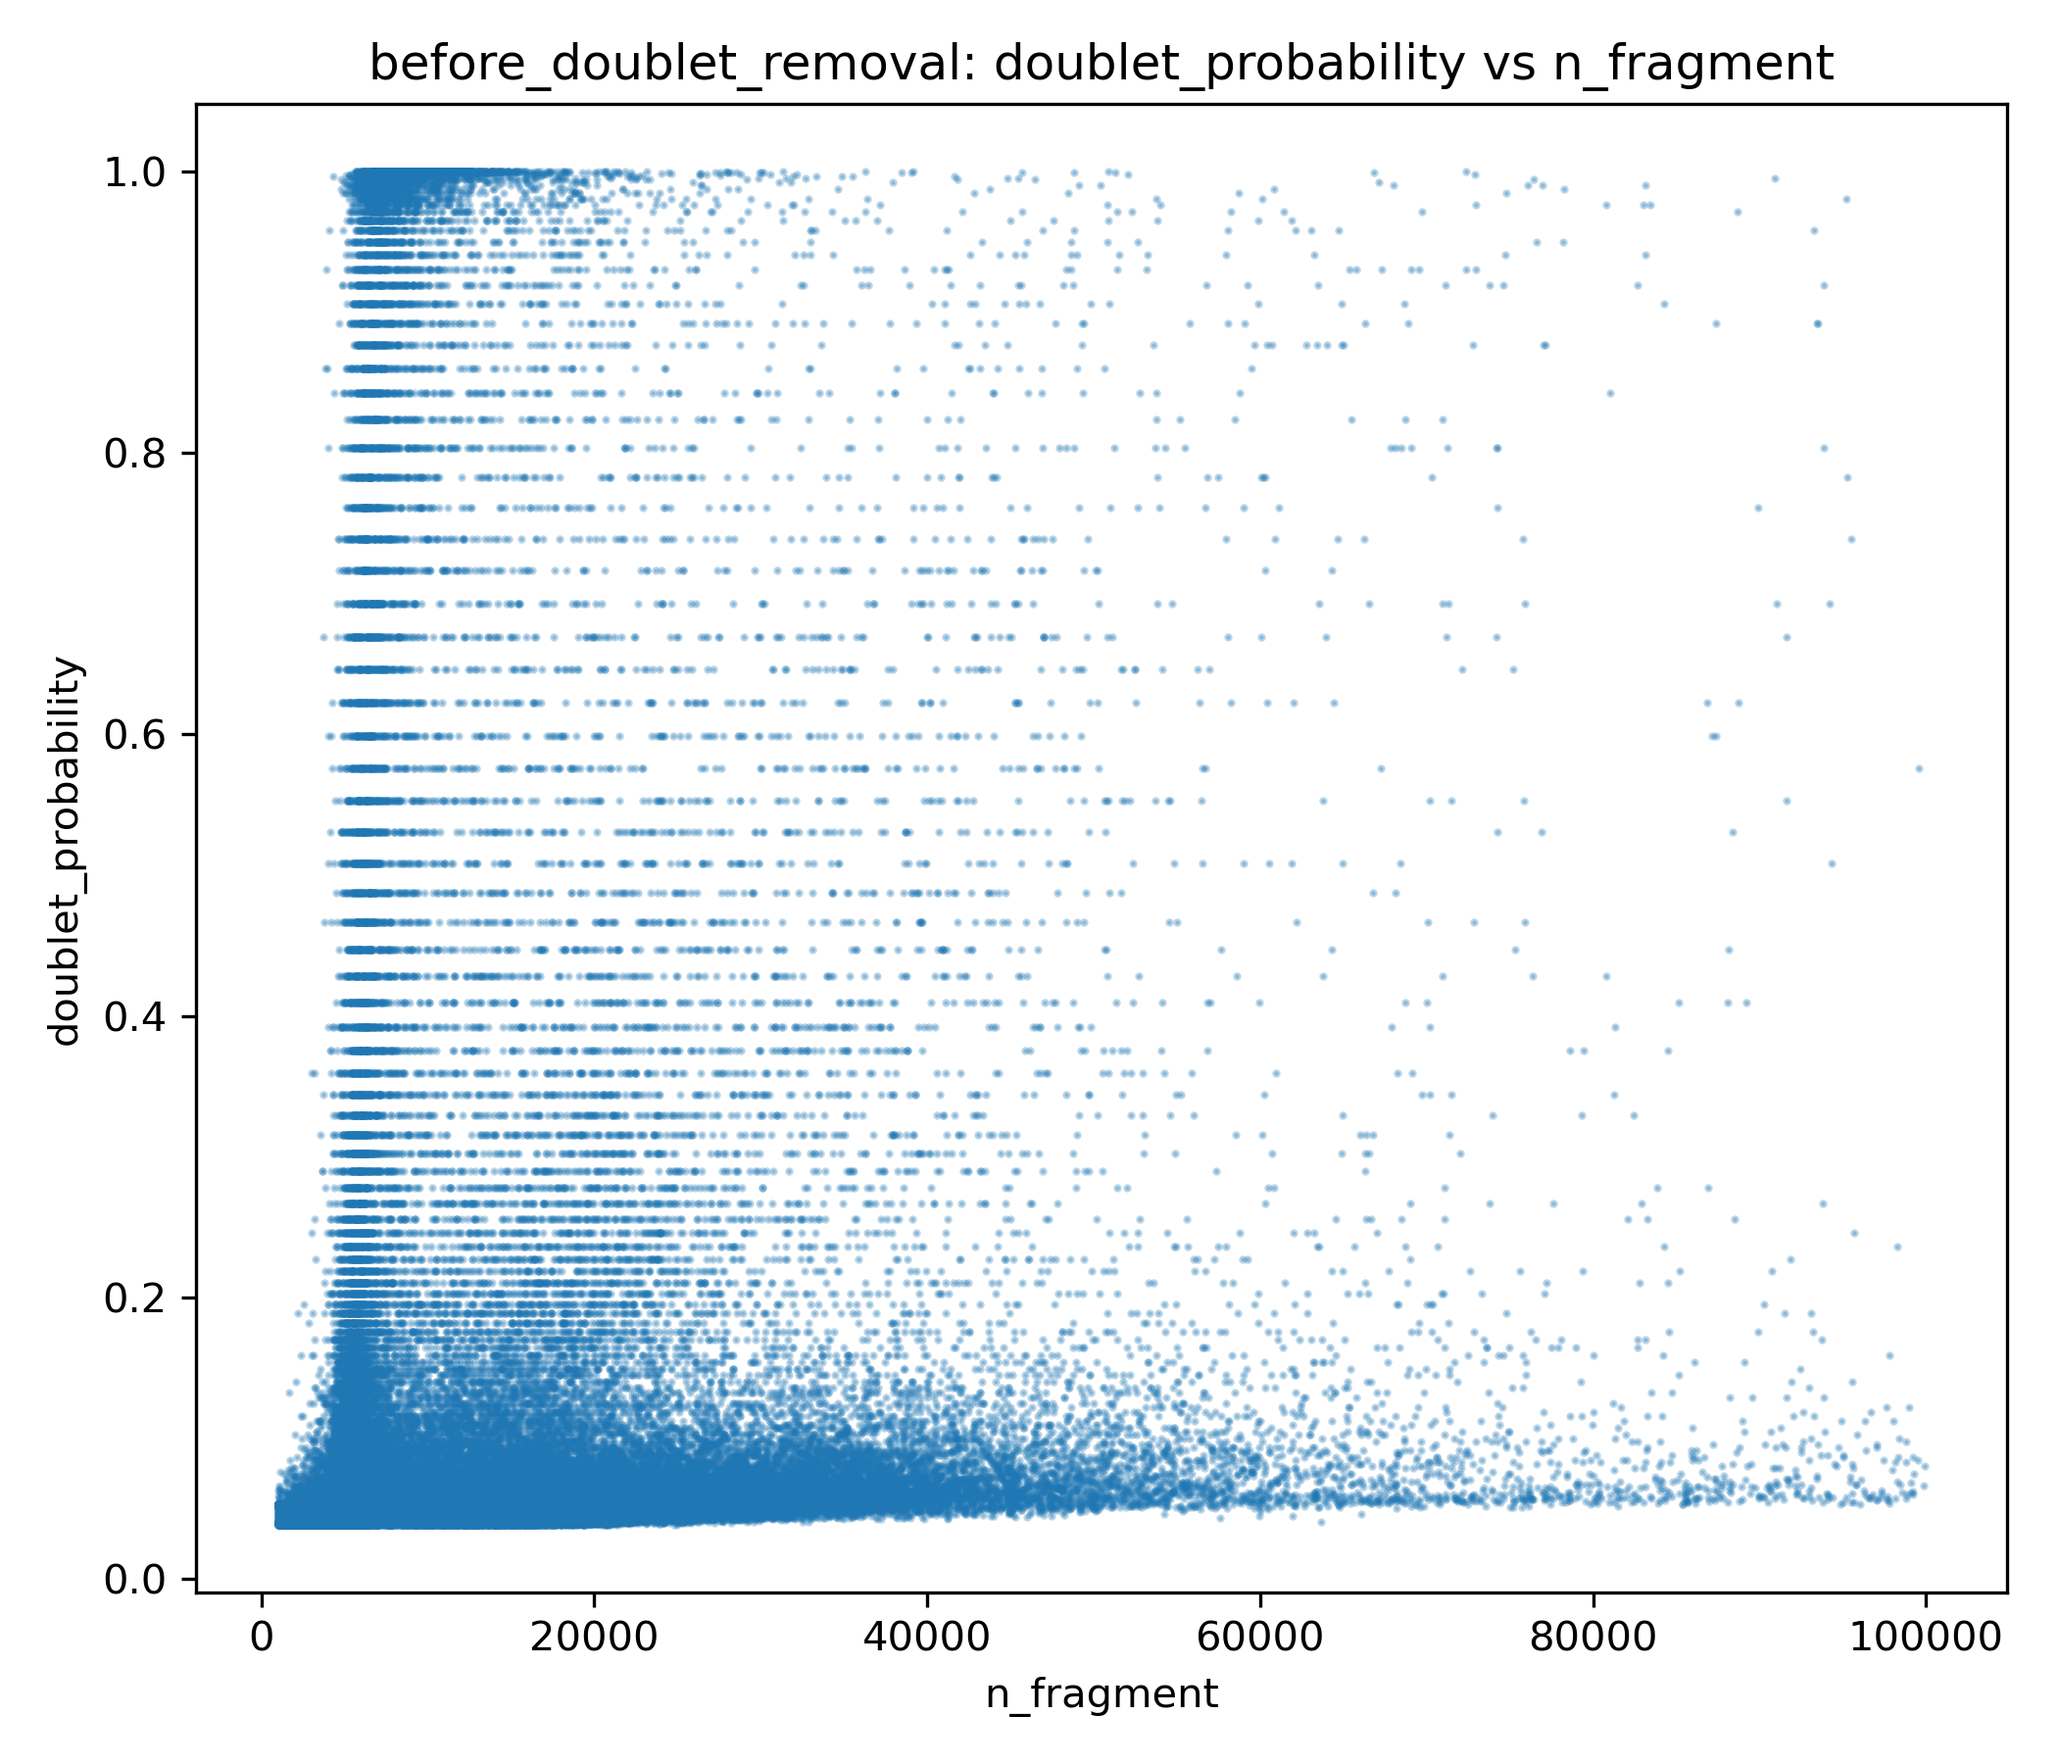
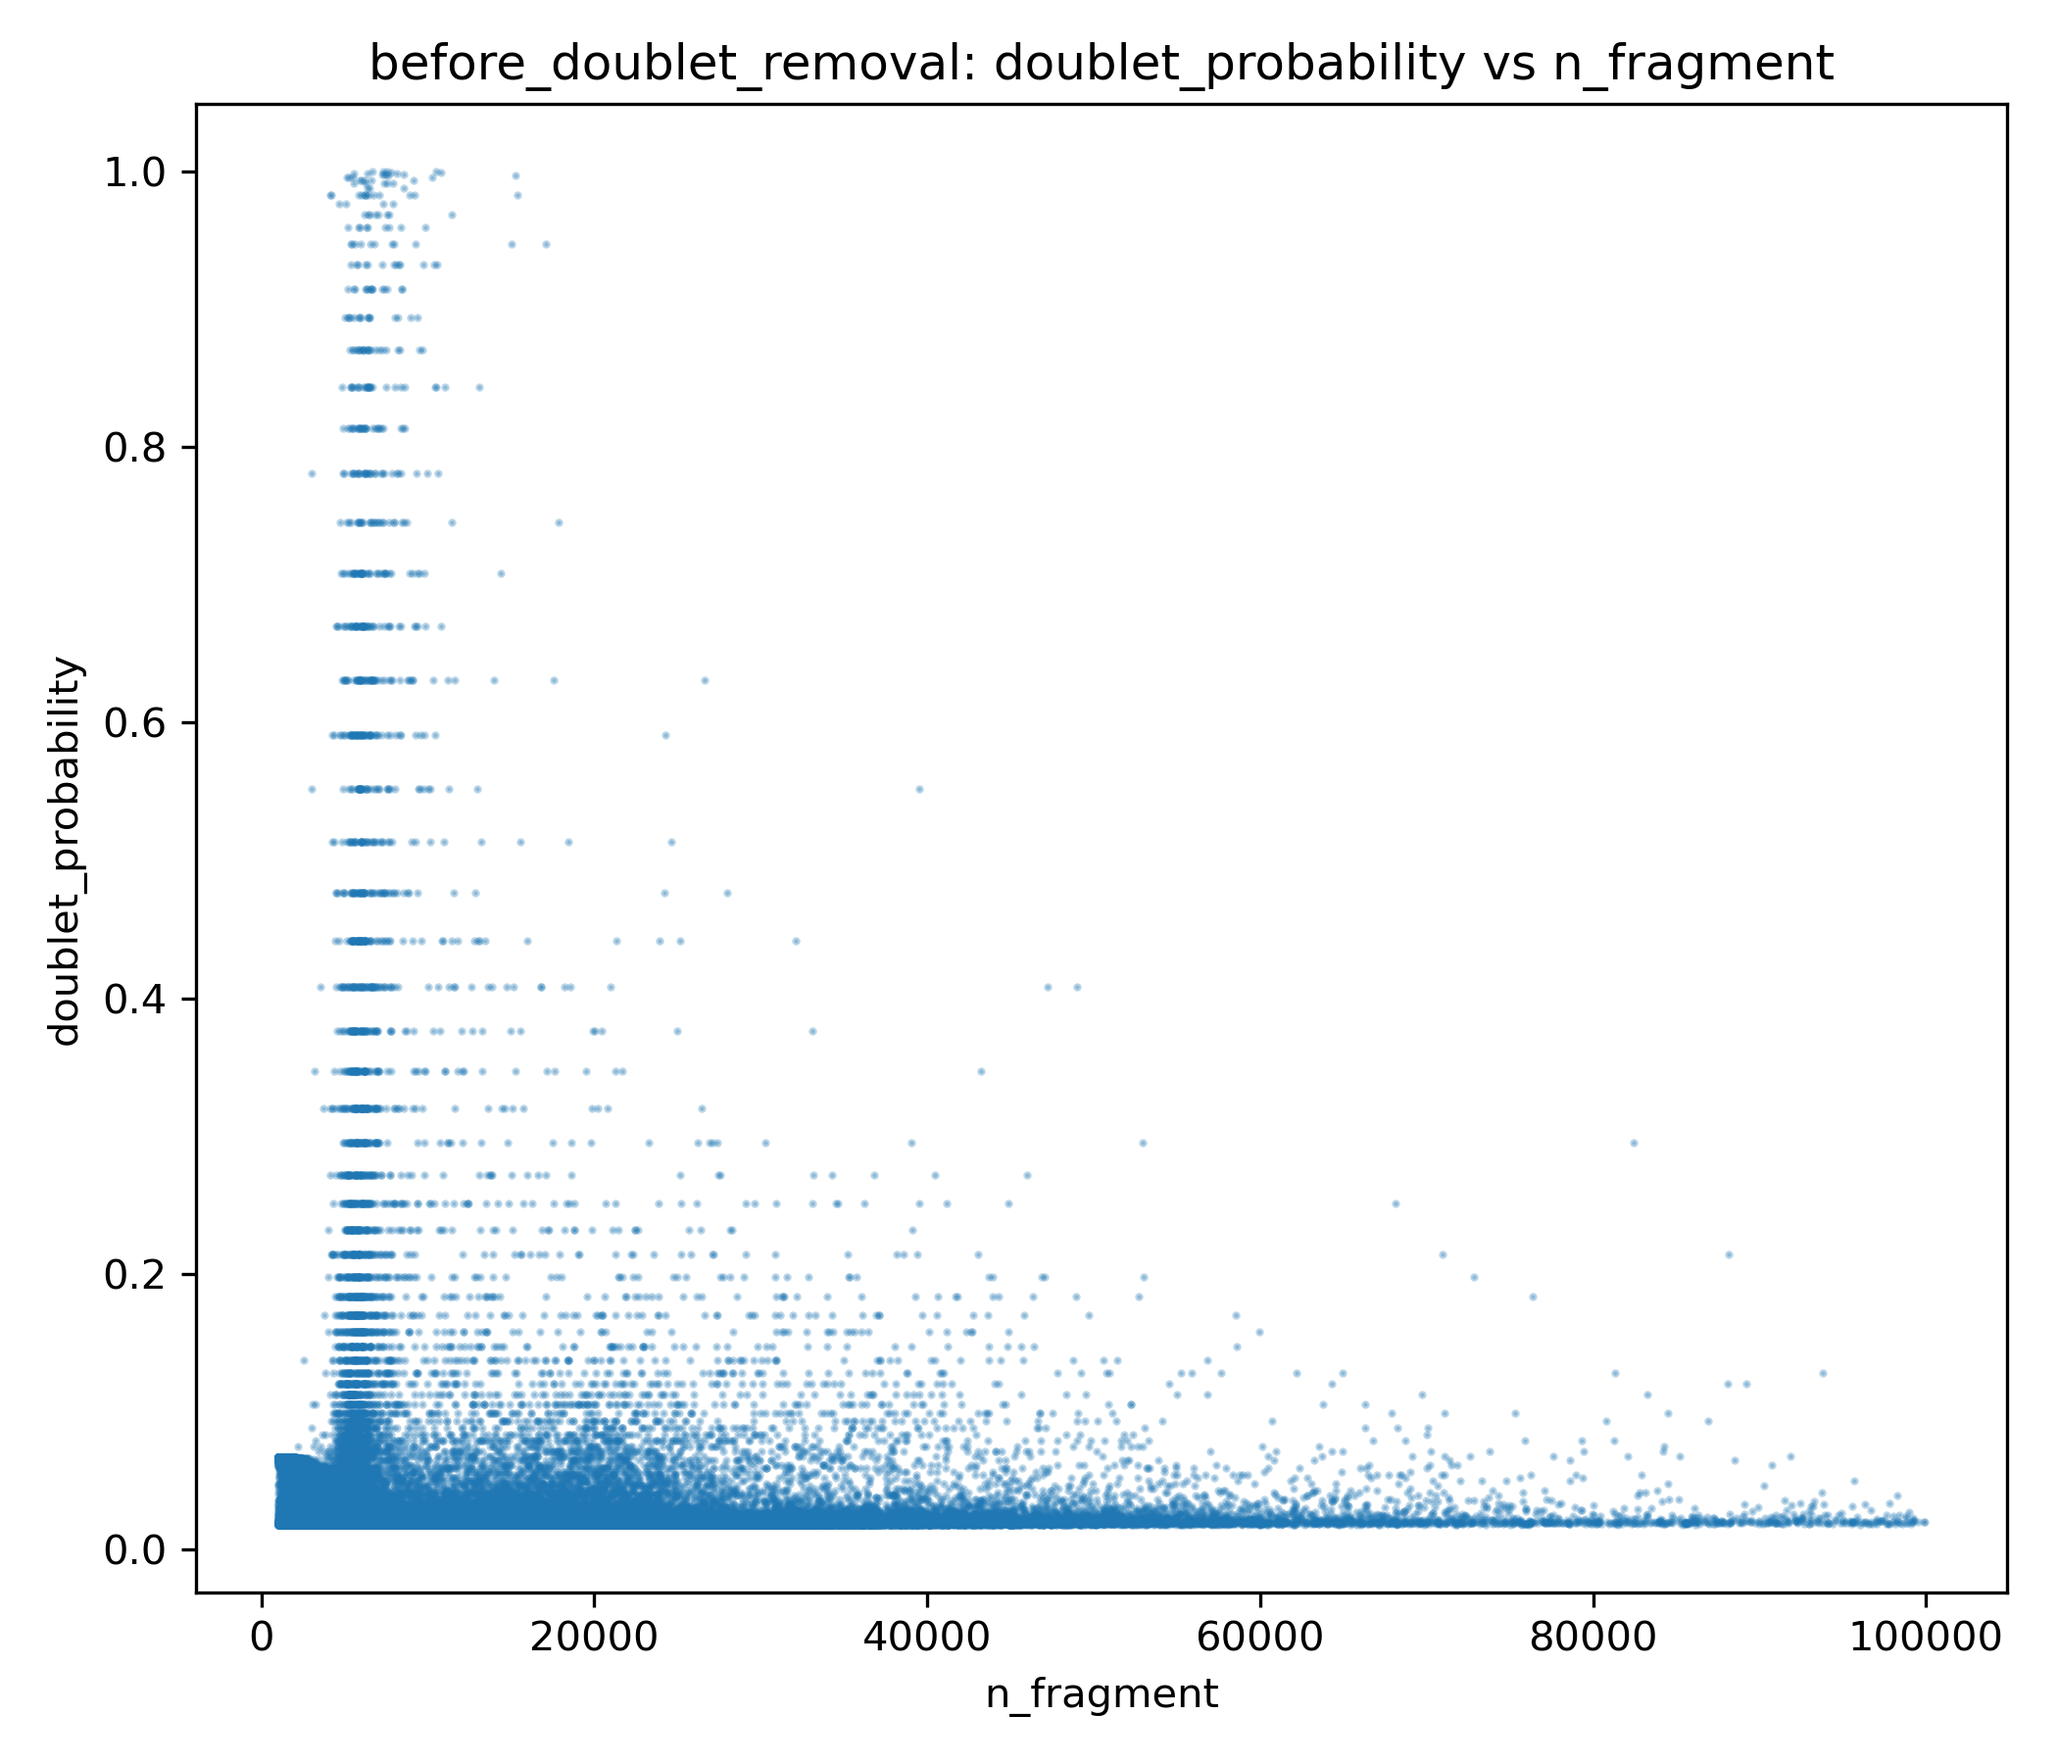
Update README, doublet plots and removeDoublets

diff --git a/src/removeDoublets.py b/src/removeDoublets.py
@@ -1,3 +1,5 @@
+#!/usr/bin/env python3
+
 import argparse
 import os
 import matplotlib.pyplot as plt
@@ -6,12 +8,10 @@ import snapatac2 as snap
 
 
 def plot_hist(adata, column, prefix, stage, bins=50):
-    # Check existence without .columns
     if column not in adata.obs:
         print(f"Skipping {column}: not found")
         return
     plt.figure(figsize=(7, 5))
-    # Convert to numpy array (works for pandas Series or pyarrow array)
     vals = np.array(adata.obs[column])
     plt.hist(vals, bins=bins)
     plt.xlabel(column)
@@ -50,43 +50,45 @@ def main():
     parser.add_argument("--prefix", required=True, help="Prefix for output figures")
     args = parser.parse_args()
 
+    # Create the figures directory
     os.makedirs("figures", exist_ok=True)
 
+    # SIMPLE FIX 1: Ensure the destination directory for the output file actually exists
+    out_dir = os.path.dirname(args.output)
+    if out_dir:
+        os.makedirs(out_dir, exist_ok=True)
+
     print("Reading object...")
-    # Use snap.read to handle the merged file format
     adata = snap.read(args.input)
     print(f"Loaded: {adata.n_obs} cells")
 
-    # Select variable features – required for scrublet
     print("Selecting variable features...")
     snap.pp.select_features(adata)
 
-    # Run Scrublet doublet detection
     print("Running doublet detection (snap.pp.scrublet)...")
     snap.pp.scrublet(adata)
 
-    # Generate before-removal figures
     print("Generating before-removal figures...")
     plot_hist(adata, "doublet_probability", args.prefix, "before_doublet_removal")
     plot_scatter(adata, "n_fragment", "doublet_probability", args.prefix, "before_doublet_removal")
 
-    # Filter out cells with doublet probability > 0.5
     print("Filtering doublets...")
     snap.pp.filter_doublets(adata, probability_threshold=0.5)
-
     print(f"Remaining cells after doublet removal: {adata.n_obs}")
 
-    # Generate after-removal figures
     print("Generating after-removal figures...")
     plot_hist(adata, "doublet_probability", args.prefix, "after_doublet_removal")
     plot_scatter(adata, "n_fragment", "doublet_probability", args.prefix, "after_doublet_removal")
 
-    # Save filtered object
-    print(f"Saving filtered object to {args.output}")
-    adata.write_h5ad(args.output)
+    # SIMPLE FIX 2: Break the active read lock on the input file before writing
+    print("Loading filtered data into memory for saving...")
+    adata = adata.to_memory()
 
+    print(f"Saving filtered object to {args.output}")
+    adata.write(args.output)
     print("Done.")
 
 
 if __name__ == "__main__":
     main()
+

diff --git a/README.md b/README.md
@@ -137,6 +137,10 @@ AND frac_dup ≤ 0.5
 ![](figures/noDoublets_before_doublet_removal_doublet_probability_vs_n_fragment.png?v=1)
 
 
+A total of **179,807 cells** were initially loaded. Doublets were identified using a **doublet score cutoff of 0.5**. After filtering, **179,258 cells** remained for downstream analysis.
+
+![](figures/noDoublets_after_doublet_removal_doublet_probability_vs_n_fragment.png?v=1)
+
 ## References 
 
 SnapATAC2: Zhang, K., Zemke, N. R., Armand, E. J., & Ren, B. (2024). A fast, scalable and versatile tool for analysis of single-cell omics data. Nature methods, 21(2), 217-227.
